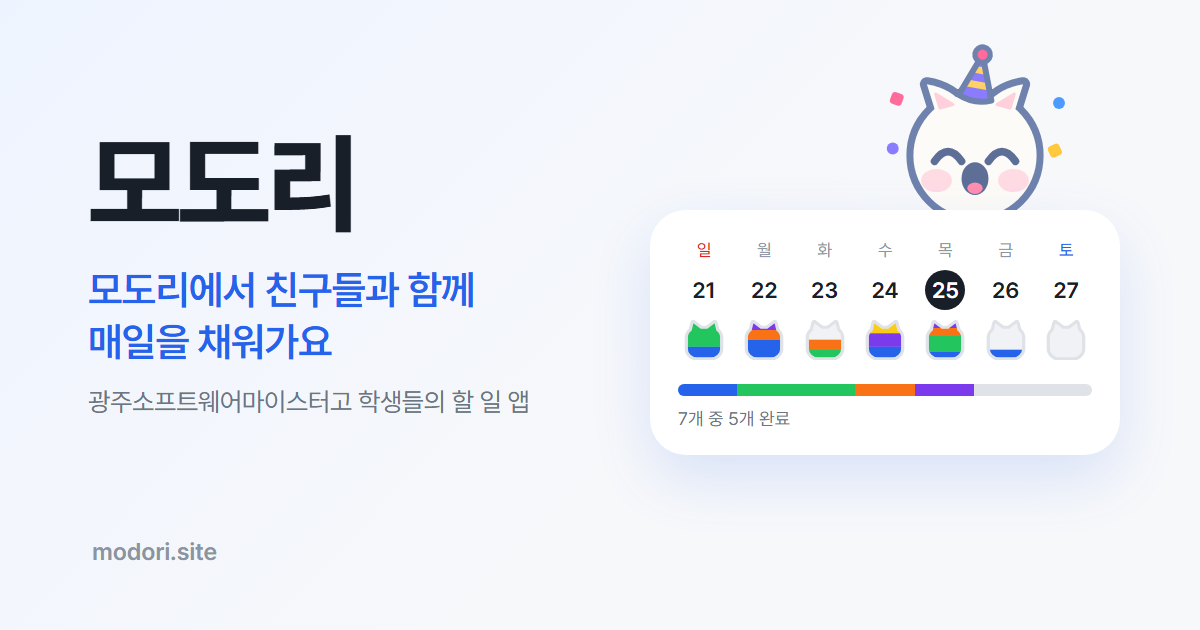
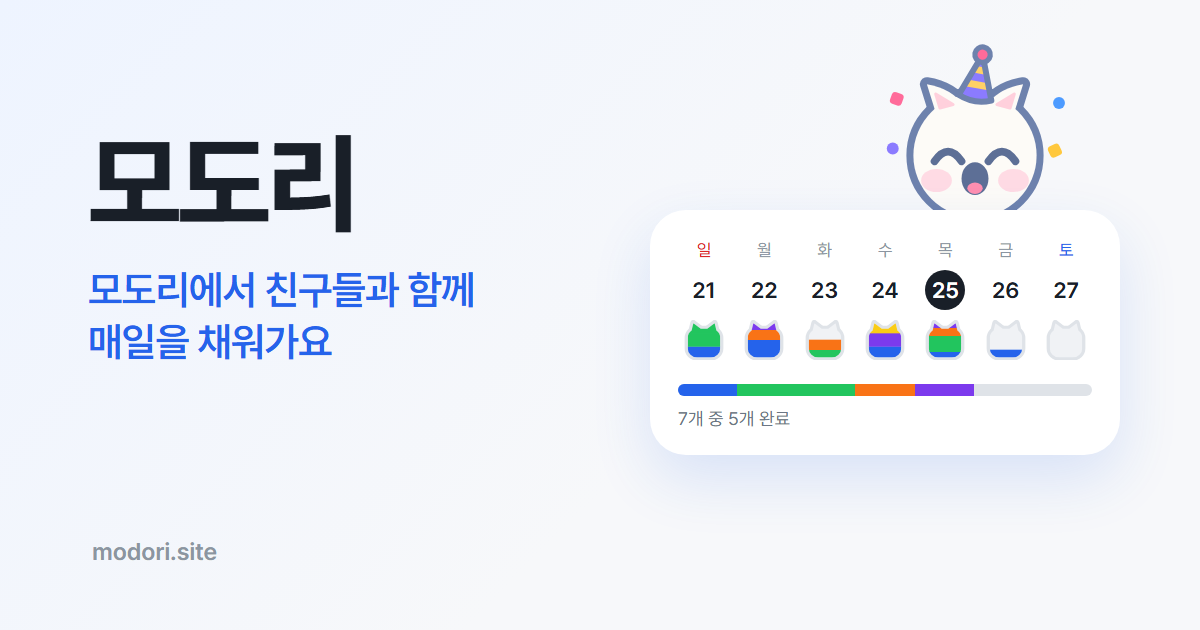
feat: 링크 미리보기 그림에서 학교 이름 문구를 뺀다

Changed region(s): [[0.0617, 0.6032, 0.4625, 0.6635]]

diff --git a/app/layout.tsx b/app/layout.tsx
@@ -20,7 +20,7 @@ export const metadata: Metadata = {
     description: "모도리에서 친구들과 함께 매일을 채워가요",
     locale: "ko_KR",
     // 카카오톡 등은 미리보기 그림을 오래 붙잡아 둔다. 그림을 바꾸면 v를 올린다.
-    images: [{ url: "/og.png?v=3", width: 1200, height: 630, alt: "모도리에서 친구들과 함께 매일을 채워가요" }],
+    images: [{ url: "/og.png?v=4", width: 1200, height: 630, alt: "모도리에서 친구들과 함께 매일을 채워가요" }],
   },
   twitter: { card: "summary_large_image" },
   // 홈 화면에 추가했을 때 주소창 없이 열린다.
